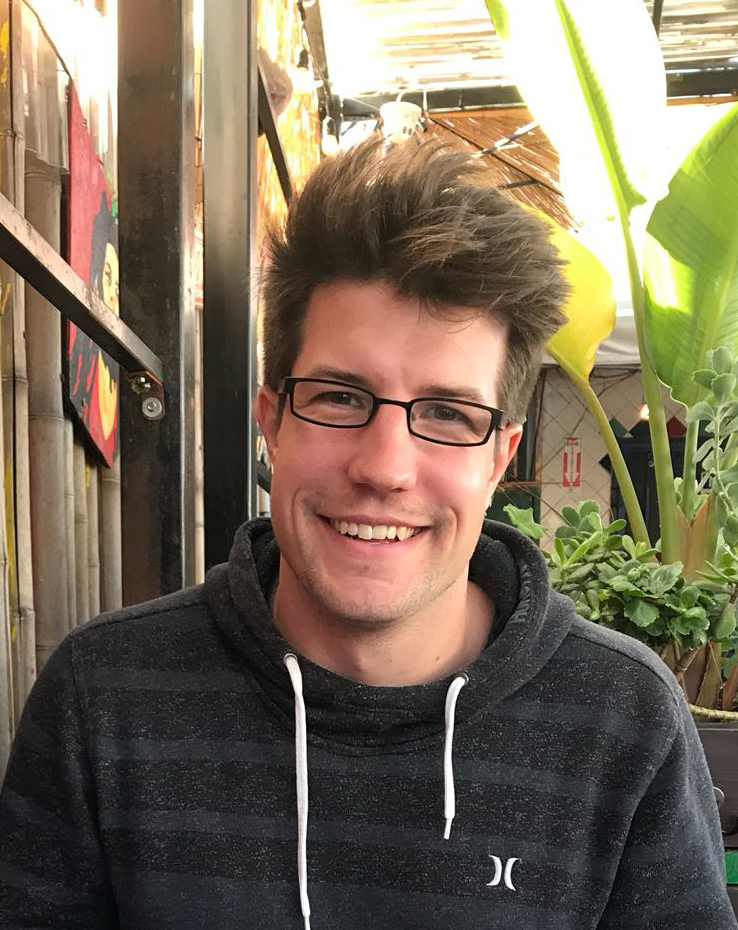
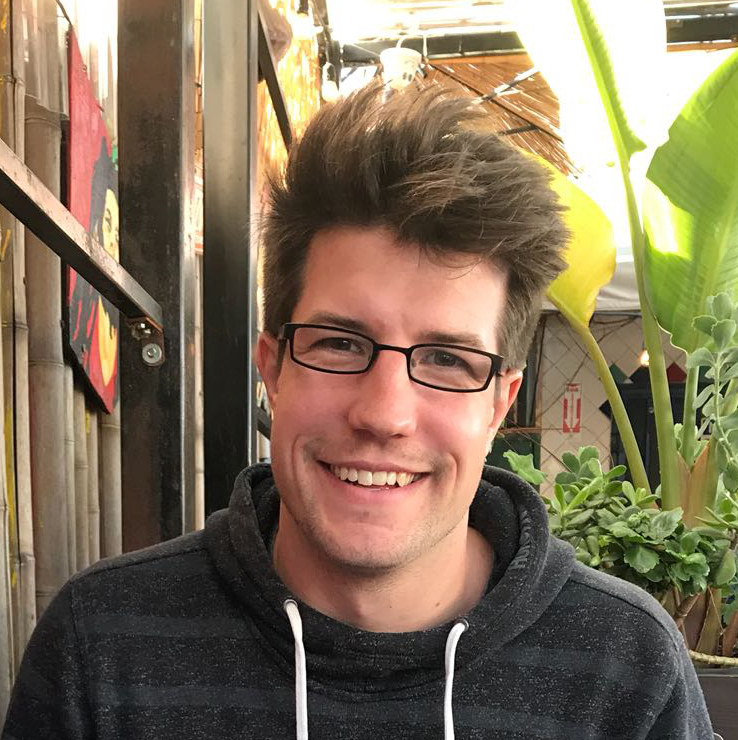
MODIFIED: first draft layout

diff --git a/_includes/head.html b/_includes/head.html
@@ -23,9 +23,7 @@
     {% if page.categories %}<meta name="keywords" content="{{ page.categories | join: ', ' }}">{% endif %}
     <link rel="canonical" href="{{ page.url | absolute_url }}">
     <link rel="alternate" type="application/rss+xml" title="RSS Feed for {{ site.title }}" href="{{ "/feed.xml" | relative_url }}" />
-
-    <!-- Custom CSS -->
-    <link rel="stylesheet" href="{{ "/css/pixyll.css" | relative_url }}?{{ site.time | date: "%Y%m%d%H%M" }}" type="text/css">
+	<link href="https://maxcdn.bootstrapcdn.com/bootstrap/3.3.5/css/bootstrap.min.css" rel="stylesheet" />
 
     <!-- Fonts -->
     {% if site.extended_fonts %}
@@ -36,7 +34,8 @@
     <link href='//fonts.googleapis.com/css?family=Lato:900,300' rel='stylesheet' type='text/css'>
     {% endif %}
     {% if site.show_social_icons or site.show_sharing_icons %}
-      <link href="//maxcdn.bootstrapcdn.com/font-awesome/latest/css/font-awesome.min.css" rel="stylesheet">
+      <link href="//maxcdn.bootstrapcdn.com/font-awesome/latest/css/font-awesome.min.css" rel="stylesheet" />
+	  <link href="https://cdn.jsdelivr.net/gh/jpswalsh/academicons@1/css/academicons.min.css" rel="stylesheet" />
     {% endif %}
 
     <!-- MathJax -->
@@ -53,6 +52,9 @@
     {% if site.bing_verification %}
       <meta name="msvalidate.01" content="{{ site.bing_verification }}" />
     {% endif %}
+
+    <!-- Custom CSS -->
+    <link rel="stylesheet" href="{{ "/css/pixyll.css" | relative_url }}?{{ site.time | date: "%Y%m%d%H%M" }}" type="text/css">
 
     <!-- Open Graph -->
     <!-- From: https://github.com/mmistakes/hpstr-jekyll-theme/blob/master/_includes/head.html -->

diff --git a/_includes/social_links.html b/_includes/social_links.html
@@ -1,7 +1,18 @@
-<div class="social-icons">
-  <!-- <div class="social-icons-right"> -->
+
+<!-- <div class="social-icons"> -->
+<div class="sicons">
+  <!--<div class="social-icons-right"> -->
+    {% if site.linkedin_username %}
+      <a class="fa fa-linkedin" href="https://www.linkedin.com/in/{{ site.linkedin_username }}" target="_blank"></a>
+    {% endif %}
     {% if site.github_username %}
-      <a class="fa fa-github" href="https://github.com/{{ site.github_username }}"></a>
+      <a class="fa fa-github" href="https://github.com/{{ site.github_username }}" target="_blank"></a>
+    {% endif %}
+    {% if site.googlescholar_username %}
+      <a class="ai ai-google-scholar-square" href="https://scholar.google.com/citations?user={{ site.googlescholar_username }}&hl=en" target="_blank"></a>
+    {% endif %}
+    {% if site.publons_username %}
+      <a class="ai ai-publons-square" href="https://publons.com/researcher/{{ site.publons_username }}" target="_blank"></a>
     {% endif %}
     {% if site.reddit_username %}
     <a class="fa fa-reddit" href="https://reddit.com/user/{{ site.reddit_username }}"></a>
@@ -27,9 +38,6 @@
     {% endif %}
     {% if site.email %}
       <a class="fa fa-envelope" href="mailto:{{ site.email }}"></a>
-    {% endif %}
-    {% if site.linkedin_username %}
-      <a class="fa fa-linkedin" href="https://www.linkedin.com/in/{{ site.linkedin_username }}"></a>
     {% endif %}
     {% if site.angellist_username %}
       <a class="fa fa-angellist" href="https://angel.co/{{ site.angellist_username }}"></a>

diff --git a/index.html b/index.html
@@ -7,11 +7,14 @@ layout: default
 	<div class="row clearfix">
     {%- if site.profile_image -%}
       <div class="col-xs-12 col-sm-4 col-md-3 no-print">
-        <span class="profile-img" style="background-image: url('{{ site.profile_image | relative_url }}')" />
+        <img class="profile-img" src="{{ site.profile_image | relative_url }}" />
       </div>
     {%- endif -%}
     	<div class="{{ 'col-xs-12 col-sm-8 col-md-9 col-print-12' }}{%- if site.profile_image -%}col-sm-8 col-md-9 col-print-12{%- endif -%}">
-      	I am an Electrical and Computer Engineering Ph.D. student in the <a href="https://mrel.usc.edu/">Magnetic Resonance Engineering Laboratory (MREL)</a> at the <a href="https://usc.edu/">University of Southern California (USC)</a>.
+      	I am an Electrical and Computer Engineering Ph.D. student in the Magnetic Resonance Engineering Laboratory (<a href="https://mrel.usc.edu/">MREL</a>) at the University of Southern California (<a href="https://usc.edu/">USC</a>), where I am advised by Prof. <a href="https://viterbi.usc.edu/directory/faculty/Nayak/Krishna">Krishna S. Nayak</a >.
+		<br />
+		<br />
+	
     	</div>
   </div>
 </div>

diff --git a/_sass/_links.scss b/_sass/_links.scss
@@ -1,12 +1,6 @@
 a {
   color: $link-color;
-  background-image: linear-gradient(to top,
-    rgba(0,0,0,0) 13%,
-    rgba($link-color,.8) 13%,
-    rgba($link-color,.8) 18%,
-    rgba(0,0,0,0) 17%
-  );
-  text-shadow: white 1px 0px 0px, white -1px 0px 0px;
+  text-decoration: none;
 }
 
 a:hover,
@@ -15,13 +9,6 @@ a:active {
   border: 0;
   color: $link-hover-color;
   text-decoration: none;
-  background-image: linear-gradient(to top,
-    rgba(0,0,0,0) 13%,
-    rgba($link-hover-color,.8) 13%,
-    rgba($link-hover-color,.8) 17%,
-    rgba(0,0,0,0) 17%
-  );
-  text-shadow: white 1px 0px 0px, white -1px 0px 0px;
 }
 
 // Correct issues with buttons
@@ -37,11 +24,13 @@ button,
   color: white;
   text-shadow: none;
   background-image: none;
+  text-decoration: none;
 }
 
 .anchorjs-link {
     text-shadow: none;
     background-image: none;
+	text-decoration: none;
 }
 .anchorjs-link:hover,
 .anchorjs-link:focus,
@@ -50,4 +39,5 @@ button,
     color: $link-hover-color;
     text-shadow: none;
     background-image: none;
+	text-decoration: none;
 }

diff --git a/_sass/_variables.scss b/_sass/_variables.scss
@@ -1,5 +1,5 @@
 // Typography
-$base-font-size: 14px !default;
+$base-font-size: 12px !default;
 $bold-font-weight: bold !default;
 $font-family: 'Merriweather', 'PT Serif', Georgia, 'Times New Roman', serif !default;
 $line-height: 1.5 !default;
@@ -51,9 +51,10 @@ $darken-1: rgba(#000,.0625) !default;
 $darken-2: rgba(#000,.125) !default;
 $darken-3: rgba(#000,.25) !default;
 $darken-4: rgba(#000,.5) !default;
+$cardinal: #9D2235 !default;
 
 // Links
-$link-color: $blue;
+$link-color: $cardinal;
 $link-hover-color: darken($blue, 40%);
 
 // Breakpoints
@@ -127,9 +128,9 @@ $nav-link-border-bottom: 2px solid #444;
 $nav-active-border-bottom: 1px solid $light-gray;
 
 // Footer
-$footer-border-top: thin solid #f3f3f3;
+$footer-border-top: 0px solid #f3f3f3;
 $footer-padding: $space-3;
 $footer-color: #7a7a7a;
-$footer-bg-color: #fafafa;
+$footer-bg-color: #FFFFFF;
 $footer-font-weight: 300;
 $footer-font-size: .75rem;

diff --git a/_includes/footer.html b/_includes/footer.html
@@ -1,11 +1,10 @@
-<!-- <footer class="center">
+<footer class="center">
   <div class="measure">
-    <small>
-      Theme crafted with &lt;3 by <a href="http://johnotander.com">John Otander</a> (<a href="https://twitter.com/4lpine">@4lpine</a>).<br>
-      &lt;/&gt; available on <a href="https://github.com/johnotander/pixyll">GitHub</a>.
-    </small>
+      {% if site.show_social_icons %}
+        {% include social_links.html %}
+      {% endif %}
   </div>
-</footer> -->
+</footer>
 <!-- {% if site.enable_anchorjs %}<!-- AnchorJS -->
 <!-- <script src="https://cdnjs.cloudflare.com/ajax/libs/anchor-js/3.0.0/anchor.min.js"></script>
 <script>
@@ -16,8 +15,6 @@
     if ("serviceWorker" in navigator) {
       navigator.serviceWorker.register("{{ '/sw.js' | relative_url }}")
     }
-</script> -->
+</script>
 
-      {% if site.show_social_icons %}
-        {% include social_links.html %}
-      {% endif %}
+

diff --git a/_sass/_base.scss b/_sass/_base.scss
@@ -33,14 +33,14 @@ body {
   -webkit-box-sizing: border-box;
 }
 
-
 .profile-img {
-  width: 300px;
-  height: 300px;
+//  width: ;
+  max-width: 100%;
+  height: auto;
   margin: 0 auto;
   margin-bottom: 20px;
   display: block;
-  border-radius: 200px;
+  border-radius: 100%;
   background-size: cover;
   background-position: center;
   background-repeat: repeat, no-repeat;

diff --git a/_sass/_social-icons.scss b/_sass/_social-icons.scss
@@ -1,3 +1,11 @@
+.sicons a {
+	font-size: 1.5em;
+	padding-left: 0.15em;
+	padding-right: 0.15em;
+	text-decoration: none;
+	color: black;
+}
+
 .social-icons-left, .social-icons-right {
   text-align: center;
   float: none;
@@ -13,6 +21,7 @@
   cursor: pointer;
   opacity: 0.8;
   padding: 0.2em;
+  text-decoration: none;
 }
 
 .social-icons a.fa:hover {

diff --git a/_layouts/default.html b/_layouts/default.html
@@ -16,7 +16,7 @@ height="0" width="0" style="display:none;visibility:hidden"></iframe></noscript>
       </div>
     </div>
   </div>
-
+  <div class="clearfix"></div>
   {% include footer.html %}
 </body>
 </html>

diff --git a/css/pixyll.scss b/css/pixyll.scss
@@ -11,8 +11,6 @@
 * @license MIT
 */
 
-@import url(https://maxcdn.bootstrapcdn.com/bootstrap/3.3.5/css/bootstrap.min.css);
-
 @import 'variables';
 
 @import 'basscss';

diff --git a/_sass/_footer.scss b/_sass/_footer.scss
@@ -27,3 +27,7 @@ footer {
   padding: $footer-padding;
   text-align: center;
 }
+
+footer a {
+	text-decoration:none;
+}
